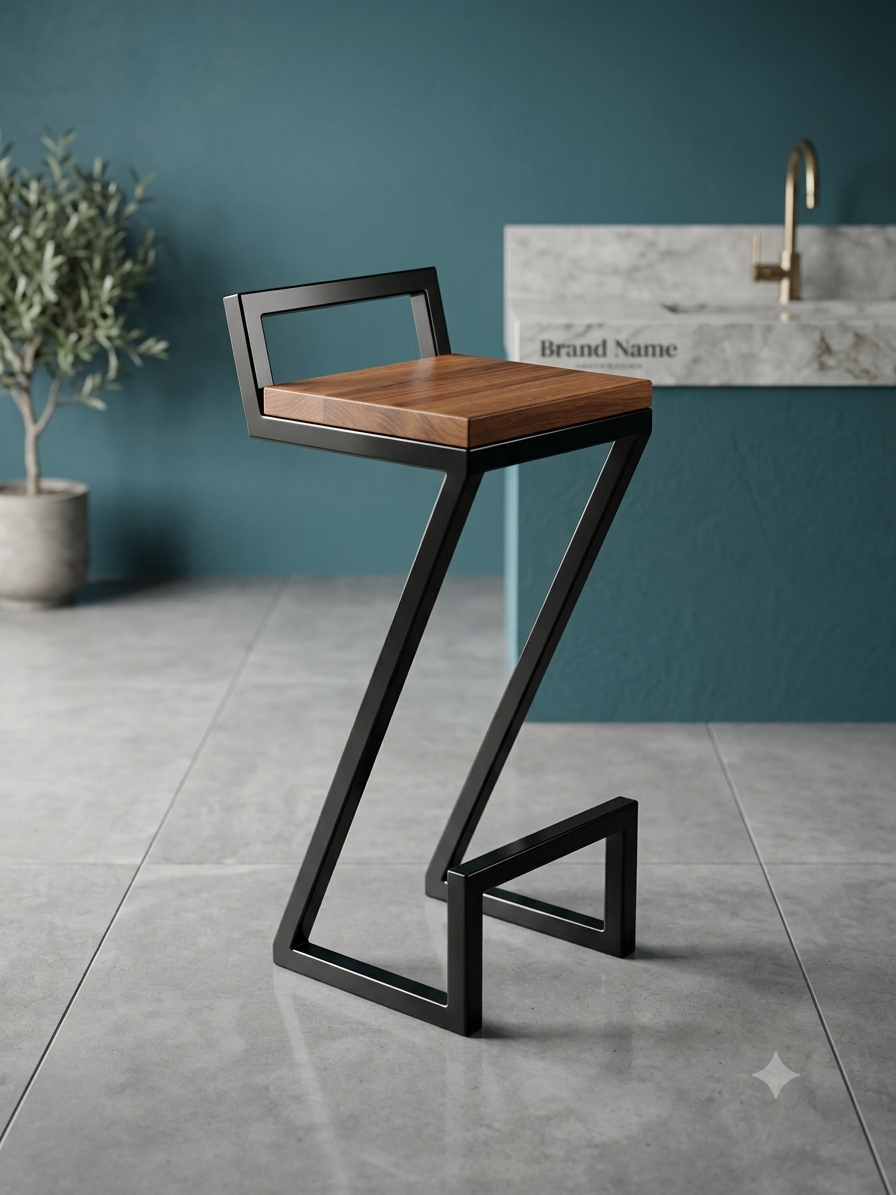
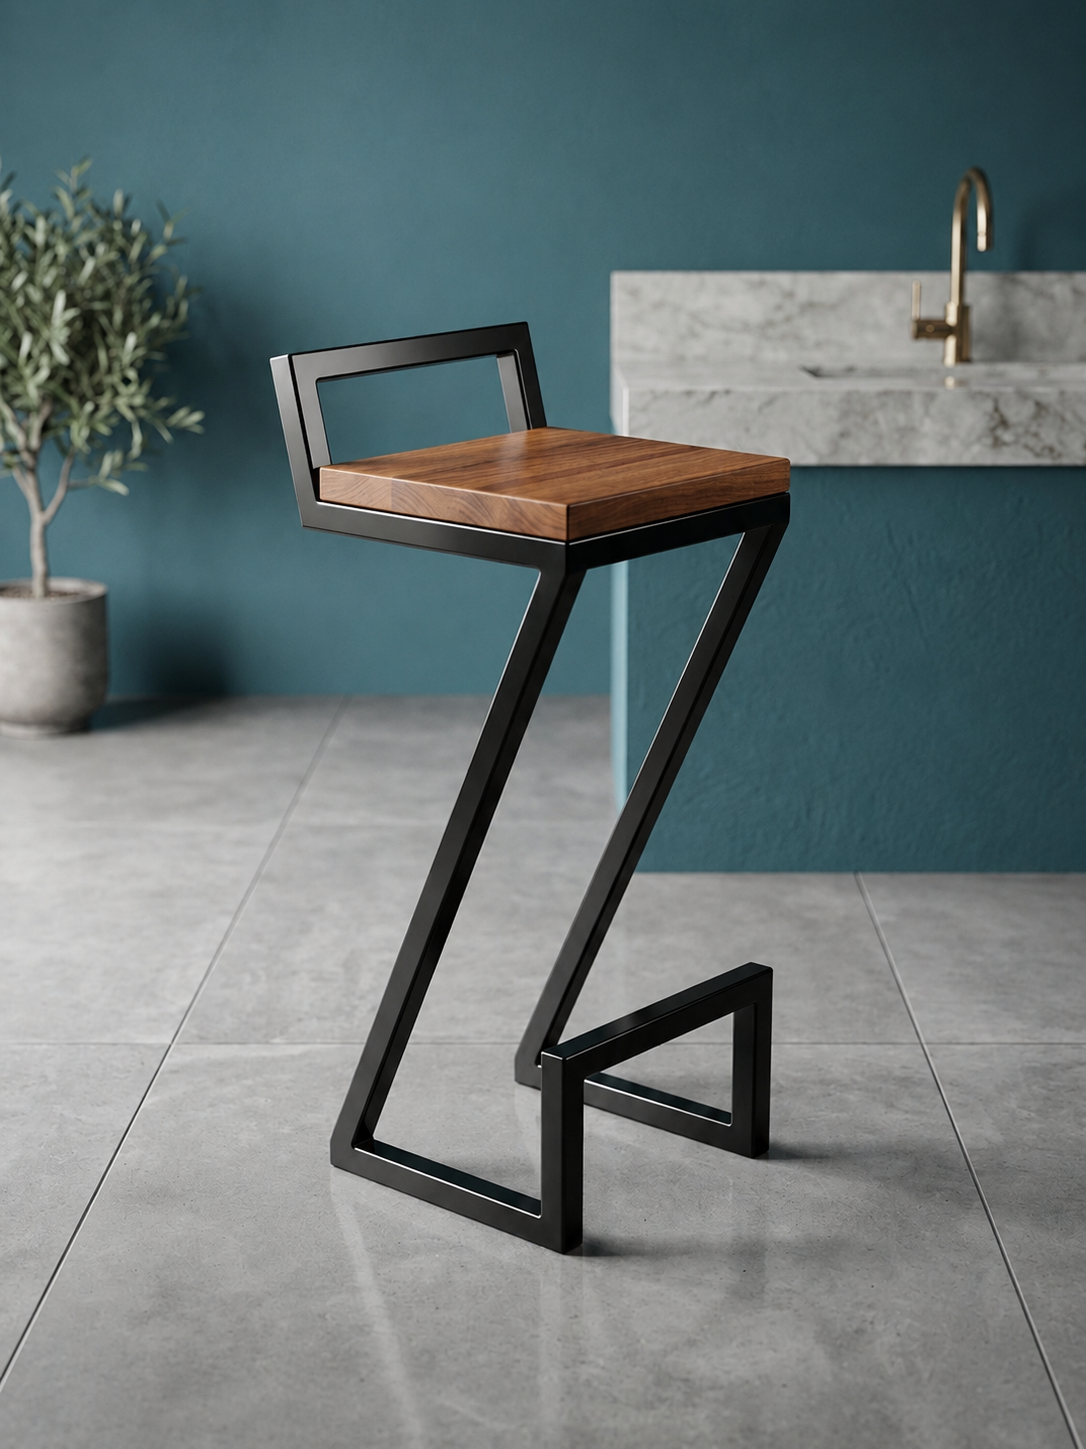
Arreglo de la galeria de fotos

diff --git a/app/components/Contacto.tsx b/app/components/Contacto.tsx
@@ -69,7 +69,7 @@ export default function Contacto() {
           
           {/* Tarjeta 1: WhatsApp */}
           <a 
-            href="https://wa.me/5492664304069?text=Hola%20CB%20Muebles!%20Quería%20consultar%20por%20un%20mueble%20personalizado."
+            href="https://wa.me/5492664342025?text=Hola%20CB%20Muebles!%20Quería%20consultar%20por%20un%20mueble%20personalizado."
             target="_blank"
             rel="noopener noreferrer"
             className="block md:table-cell bg-stone-900/50 border border-muebles-madera/20 rounded-2xl p-8 text-center transition-all transform hover:scale-102 hover:border-muebles-oro/40 group"
@@ -80,7 +80,7 @@ export default function Contacto() {
               </svg>
             </div>
             <h3 className="font-bold text-xl text-muebles-oro mb-1">WhatsApp</h3>
-            <p className="text-sm text-muebles-crema/80 font-mono tracking-wide">+54 9 2664 30-4069</p>
+            <p className="text-sm text-muebles-crema/80 font-mono tracking-wide">+54 9 2664 34-2025</p>
           </a>
 
           <a 
